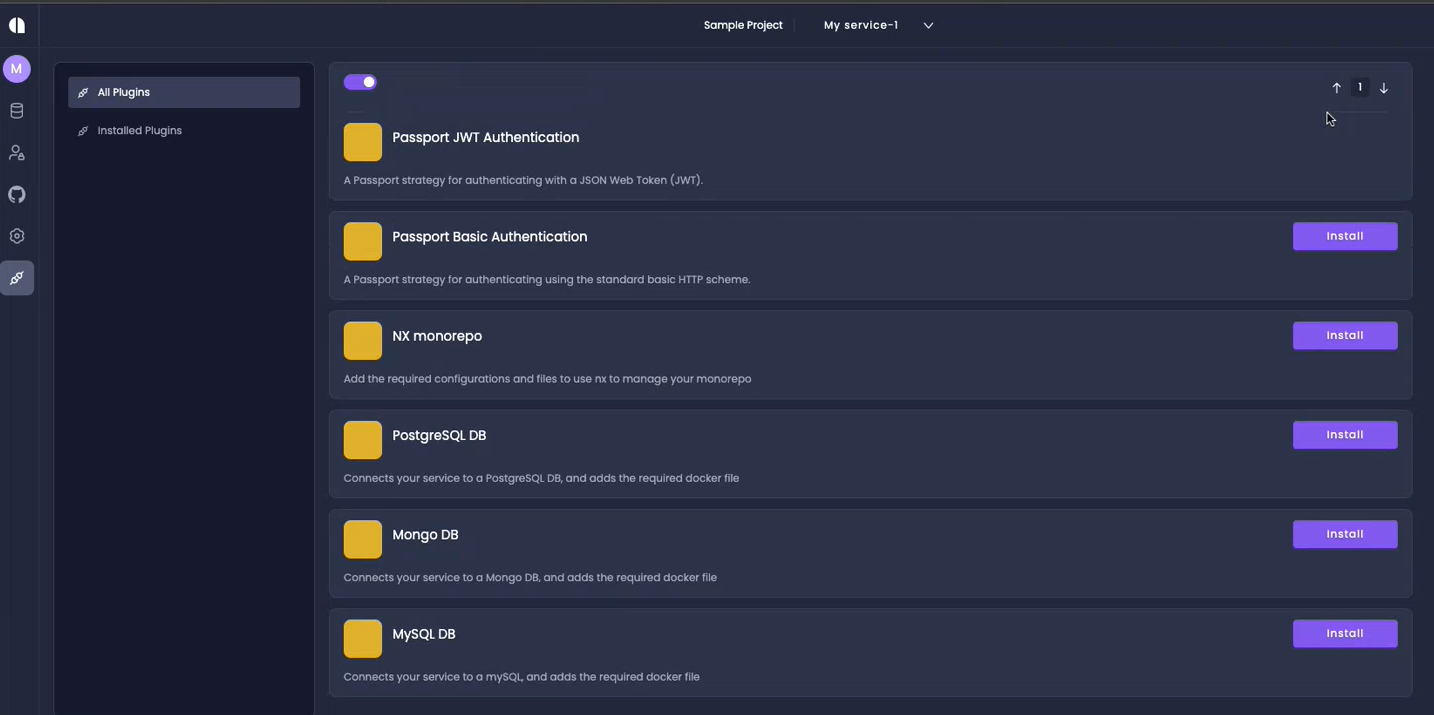
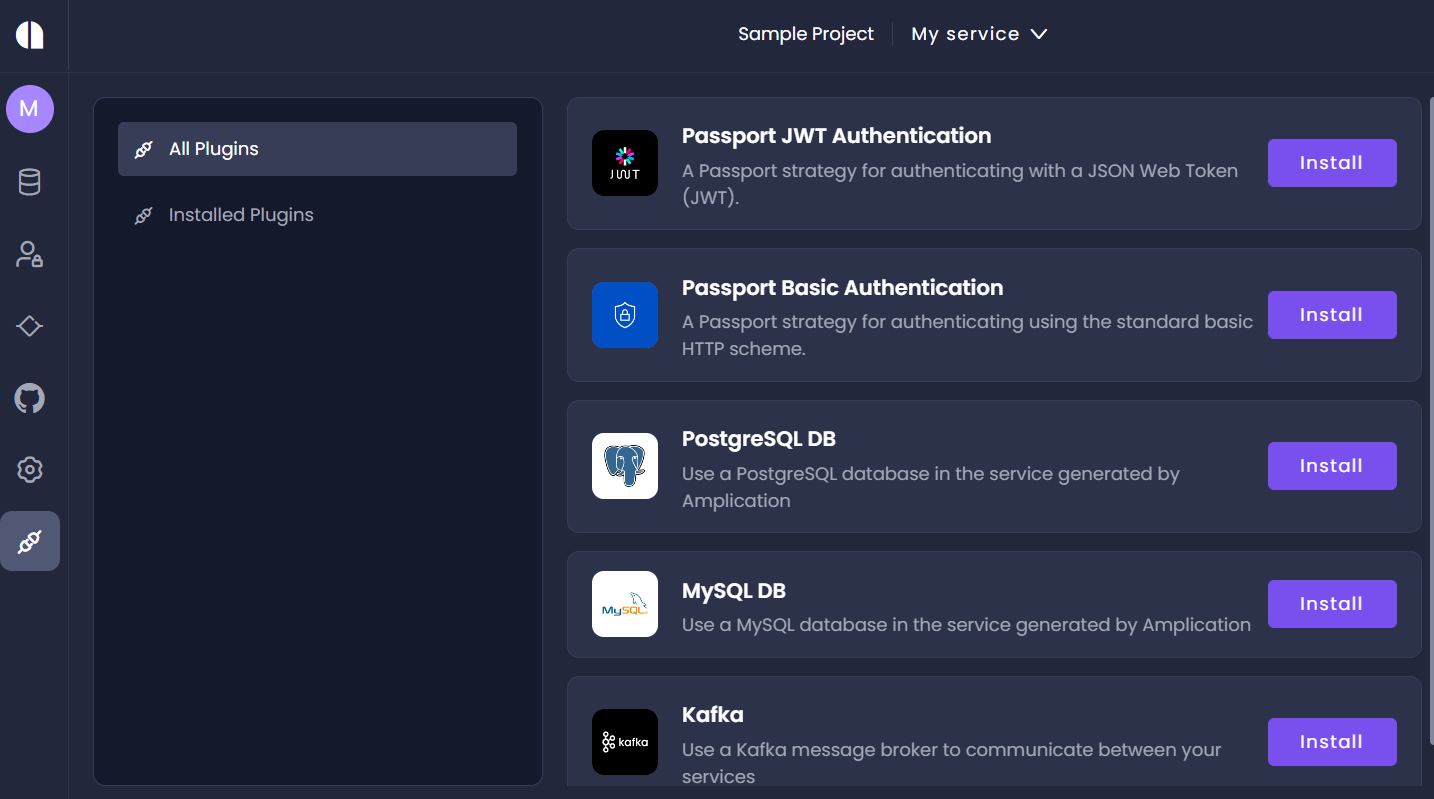
added-installed-plugins-screen

diff --git a/docs/getting-started/addons.md b/docs/getting-started/addons.md
@@ -23,12 +23,16 @@ If you or your organization require a specific function, install an existing plu
 
 ![](./assets/all-addons.png)
 
-2. Go to the _Installed Plugins_ page. The installed plugin is included. 
+2. Go to the _Installed Plugins_ page. The installed plugins are listed. 
+
+![](./assets/installed-plugins.png)
+
 :::note
 The plugins are executed when Amplication generates code, according to their order on the _Installed Plugins_ page.
 :::
 
 3. To change the order of the installed plugins, click the up or down arrow to the right of the plugin bar.
+4. To activate or deactivate the plugin, click the toggle switch. 
 
 
 
